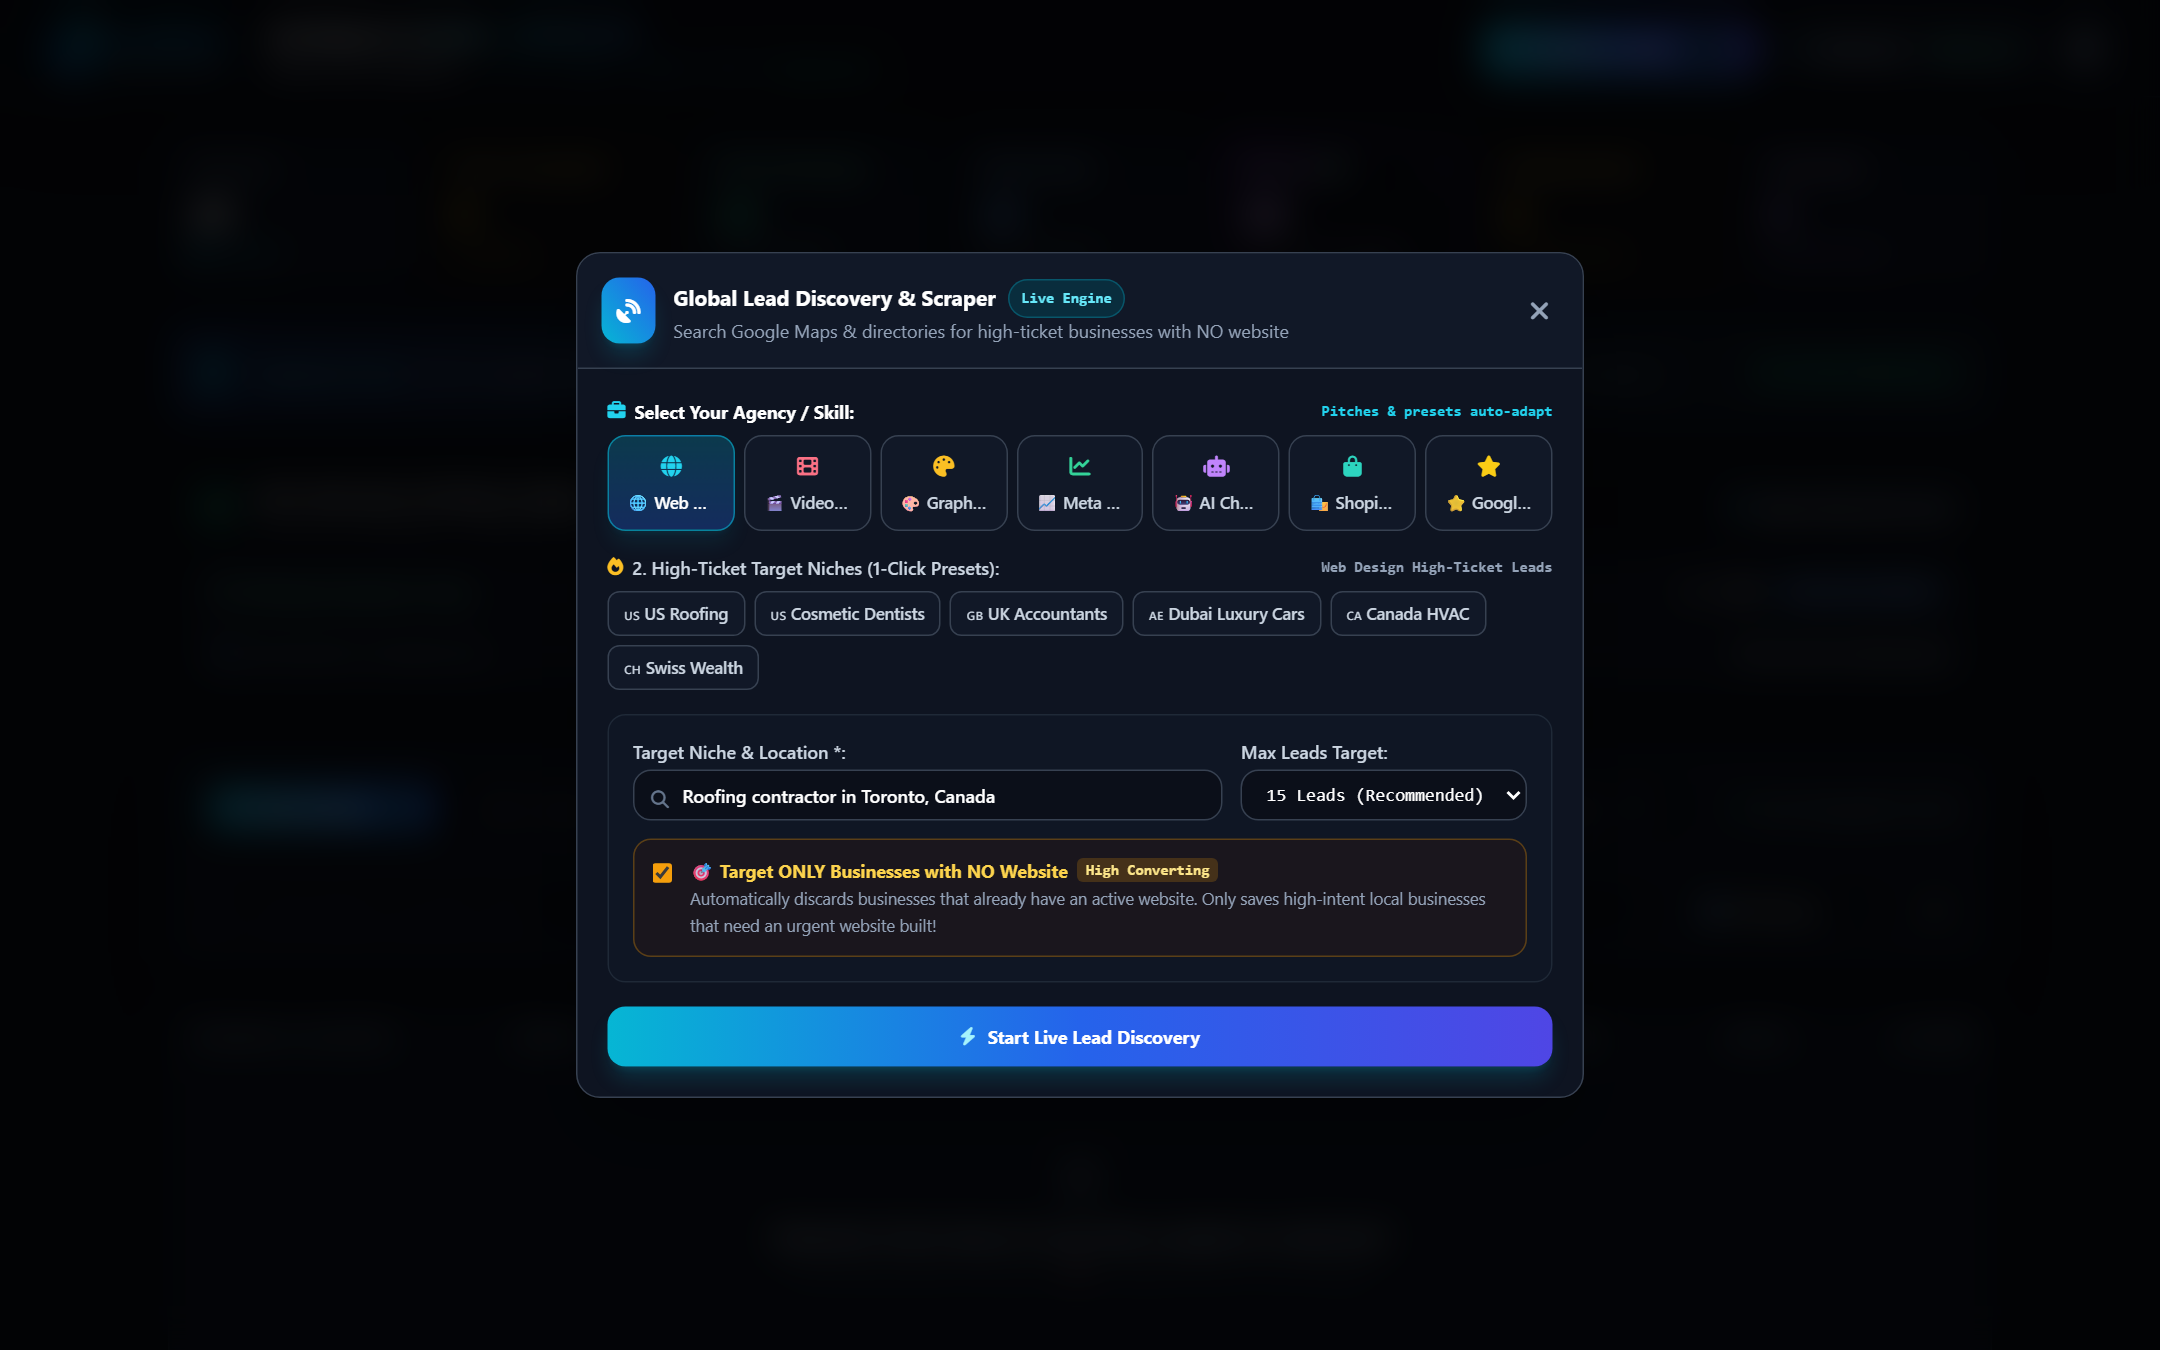
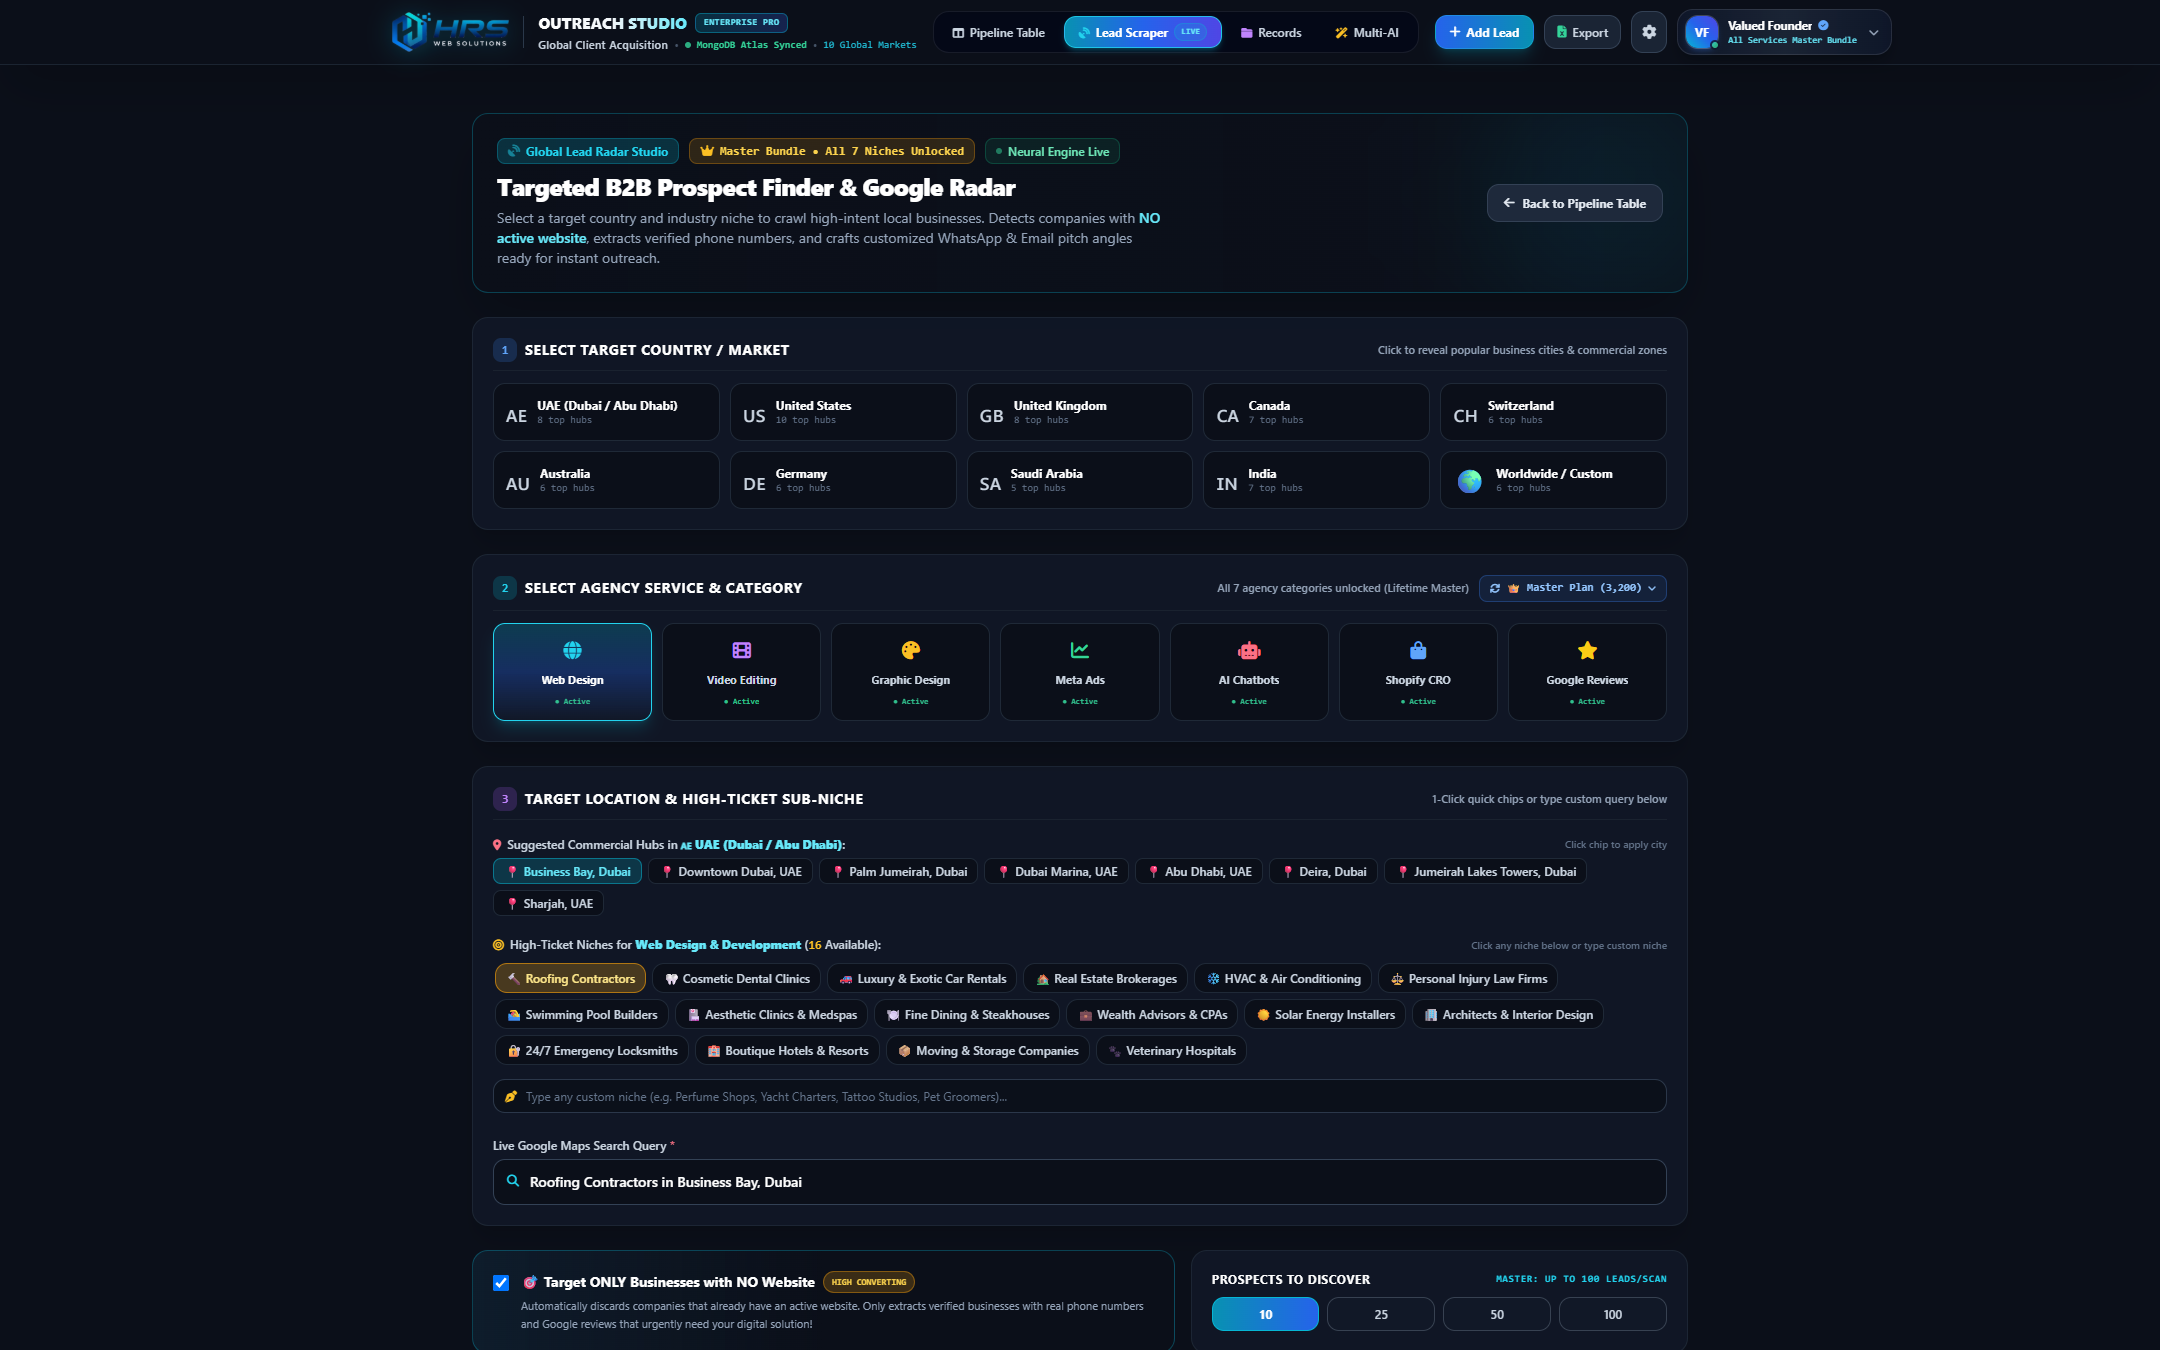
feat(landing): update hero mockup with executive header and retina dedicated lead scraper studio screenshot

diff --git a/index.html b/index.html
@@ -361,29 +361,35 @@
         <div class="relative rounded-2xl sm:rounded-3xl overflow-hidden border border-white/[0.14] shadow-[0_25px_80px_-15px_rgba(37,99,235,0.4)] bg-[#070b18]">
           
           <!-- Mockup Controls & Interactive Tabs Header -->
-          <div class="bg-slate-900/95 border-b border-white/[0.08] px-4 sm:px-6 py-3 flex flex-col sm:flex-row items-center justify-between gap-3">
-            <div class="flex items-center gap-2">
-              <span class="w-3 h-3 rounded-full bg-rose-500/80"></span>
-              <span class="w-3 h-3 rounded-full bg-amber-500/80"></span>
-              <span class="w-3 h-3 rounded-full bg-emerald-500/80"></span>
-              <span id="heroTabLabel" class="ml-2.5 text-[11px] font-mono text-slate-300 font-medium">
-                CRM Workspace &bull; Global Leads Pipeline &bull; Local SQLite Engine
+          <div class="bg-slate-900/95 border-b border-white/[0.08] px-4 sm:px-6 py-3 flex flex-col sm:flex-row items-center justify-between gap-3 select-none">
+            <div class="flex items-center gap-2.5">
+              <span class="w-2 h-2 rounded-full bg-emerald-400 animate-pulse shadow-sm shadow-emerald-400/50"></span>
+              <span class="text-xs font-extrabold tracking-tight text-white font-sans flex items-center gap-1.5">
+                OUTREACH STUDIO
+                <span class="px-1.5 py-0.5 rounded bg-cyan-950/90 text-cyan-300 border border-cyan-500/40 text-[9px] font-mono font-bold uppercase">Enterprise Pro</span>
+              </span>
+              <span class="text-slate-600 hidden md:inline">•</span>
+              <span id="heroTabLabel" class="text-[11px] font-mono text-slate-400 font-medium hidden md:inline truncate max-w-md">
+                Global Leads Pipeline &bull; WhatsApp &amp; Email Dispatch &bull; MongoDB Atlas Synced
               </span>
             </div>
 
             <!-- Sleek Tab Switcher -->
-            <div class="flex items-center gap-1 bg-black/50 p-1 rounded-xl border border-white/[0.06] text-xs font-medium">
-              <button class="hero-app-tab px-3 py-1.5 rounded-lg border bg-blue-600/30 text-white border-blue-500/50 transition cursor-pointer" data-tab="crm">
+            <div class="flex items-center gap-1 bg-black/60 p-1 rounded-xl border border-white/[0.08] text-xs font-medium">
+              <button class="hero-app-tab px-3 py-1.5 rounded-lg border bg-gradient-to-r from-blue-600 to-indigo-600 text-white border-blue-400/80 font-semibold shadow-sm transition cursor-pointer" data-tab="crm">
                 Pipeline Table
               </button>
-              <button class="hero-app-tab px-3 py-1.5 rounded-lg border border-transparent text-slate-400 hover:text-slate-200 transition cursor-pointer" data-tab="ai">
-                Multi-AI Setup
+              <button class="hero-app-tab px-3 py-1.5 rounded-lg border border-transparent text-slate-400 hover:text-slate-200 transition cursor-pointer" data-tab="filters">
+                <span class="flex items-center gap-1.5">
+                  Lead Scraper
+                  <span class="px-1.5 py-0.2 rounded-full text-[8px] font-mono bg-cyan-500/20 text-cyan-300 border border-cyan-500/30 font-bold">LIVE</span>
+                </span>
               </button>
               <button class="hero-app-tab px-3 py-1.5 rounded-lg border border-transparent text-slate-400 hover:text-slate-200 transition cursor-pointer" data-tab="leads">
                 Lead Records
               </button>
-              <button class="hero-app-tab px-3 py-1.5 rounded-lg border border-transparent text-slate-400 hover:text-slate-200 transition cursor-pointer" data-tab="filters">
-                Lead Scraper
+              <button class="hero-app-tab px-3 py-1.5 rounded-lg border border-transparent text-slate-400 hover:text-slate-200 transition cursor-pointer" data-tab="ai">
+                Multi-AI Setup
               </button>
             </div>
           </div>

diff --git a/script.js b/script.js
@@ -152,11 +152,11 @@ document.addEventListener('DOMContentLoaded', () => {
   const tabContentMap = {
     'crm': {
       src: 'assets/images/hero_clean_dashboard.png',
-      label: 'CRM Workspace &bull; Global Leads Pipeline &bull; Local SQLite Engine'
+      label: 'Global Leads Pipeline &bull; WhatsApp &amp; Email Dispatch &bull; MongoDB Atlas Synced'
     },
     'ai': {
       src: 'assets/images/hero_ai_modal.png',
-      label: 'Multi-AI Setup &bull; Claude 3.7 Sonnet &bull; GPT-4o &bull; Gemini'
+      label: 'Multi-AI Pitch Engine &bull; Claude 3.7 Sonnet &bull; GPT-4o &bull; Gemini'
     },
     'leads': {
       src: 'assets/images/hero_leads_table.png',
@@ -164,7 +164,7 @@ document.addEventListener('DOMContentLoaded', () => {
     },
     'filters': {
       src: 'assets/images/hero_scraper_modal.png',
-      label: 'Global Lead Scraper &bull; Google Maps &amp; Meta Ads Engine'
+      label: 'Dedicated Lead Scraper &bull; 10 Global Markets &bull; Google Maps Radar'
     }
   };
 
@@ -172,11 +172,11 @@ document.addEventListener('DOMContentLoaded', () => {
     heroTabs.forEach(tab => {
       tab.addEventListener('click', () => {
         heroTabs.forEach(t => {
-          t.classList.remove('bg-blue-600/30', 'text-white', 'border-blue-500/50');
+          t.classList.remove('bg-gradient-to-r', 'from-blue-600', 'to-indigo-600', 'text-white', 'border-blue-400/80', 'font-semibold', 'shadow-sm', 'bg-blue-600/30', 'border-blue-500/50');
           t.classList.add('text-slate-400', 'border-transparent', 'hover:text-slate-200');
         });
         tab.classList.remove('text-slate-400', 'border-transparent', 'hover:text-slate-200');
-        tab.classList.add('bg-blue-600/30', 'text-white', 'border-blue-500/50');
+        tab.classList.add('bg-gradient-to-r', 'from-blue-600', 'to-indigo-600', 'text-white', 'border-blue-400/80', 'font-semibold', 'shadow-sm');
 
         const key = tab.getAttribute('data-tab');
         const info = tabContentMap[key];
